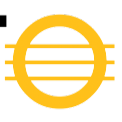
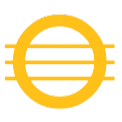
Updated the ui

Changed region(s): [[0.0, 0.123, 0.0738, 0.2213]]

diff --git a/components/Navbar.jsx b/components/Navbar.jsx
@@ -1,19 +1,16 @@
+import Image from "next/image";
+
 function Navbar() {
   return (
-    <nav className="bg-white border-gray-200 dark:bg-gray-900">
-      <div className="max-w-screen-xl flex flex-wrap items-center justify-between mx-auto p-4">
-        <a
-          href="https://flowbite.com/"
-          className="flex items-center space-x-3 rtl:space-x-reverse"
-        >
-          <img
-            src="https://flowbite.com/docs/images/logo.svg"
-            className="h-8"
-            alt="Flowbite Logo"
+    <nav className="bg-white border-b-2 border-gray-200">
+      <div className="max-w-screen-xl flex flex-wrap items-center justify-between mx-auto p-2  ">
+        <a href="/">
+          <Image
+            src="/torrins logo.png"
+            width={120}
+            height={50}
+            alt="Torrins Logo"
           />
-          <span className="self-center text-2xl font-semibold whitespace-nowrap dark:text-white">
-            Flowbite
-          </span>
         </a>
         <button
           data-collapse-toggle="navbar-default"
@@ -40,46 +37,14 @@ function Navbar() {
           </svg>
         </button>
         <div className="hidden w-full md:block md:w-auto" id="navbar-default">
-          <ul className="font-medium flex flex-col p-4 md:p-0 mt-4 border border-gray-100 rounded-lg bg-gray-50 md:flex-row md:space-x-8 rtl:space-x-reverse md:mt-0 md:border-0 md:bg-white dark:bg-gray-800 md:dark:bg-gray-900 dark:border-gray-700">
+          <ul className="font-medium flex flex-col p-4 md:p-0 mt-4 border border-gray-100 rounded-lg bg-gray-50 md:flex-row md:space-x-8 rtl:space-x-reverse md:mt-0 md:border-0 md:bg-white ">
             <li>
               <a
                 href="#"
-                className="block py-2 px-3 text-white bg-blue-700 rounded-sm md:bg-transparent md:text-blue-700 md:p-0 dark:text-white md:dark:text-blue-500"
+                className="block py-2 px-3 text-white bg-blue-700 rounded-sm md:bg-transparent md:text-blue-700 md:p-0 "
                 aria-current="page"
               >
                 Home
-              </a>
-            </li>
-            <li>
-              <a
-                href="#"
-                className="block py-2 px-3 text-gray-900 rounded-sm hover:bg-gray-100 md:hover:bg-transparent md:border-0 md:hover:text-blue-700 md:p-0 dark:text-white md:dark:hover:text-blue-500 dark:hover:bg-gray-700 dark:hover:text-white md:dark:hover:bg-transparent"
-              >
-                About
-              </a>
-            </li>
-            <li>
-              <a
-                href="#"
-                className="block py-2 px-3 text-gray-900 rounded-sm hover:bg-gray-100 md:hover:bg-transparent md:border-0 md:hover:text-blue-700 md:p-0 dark:text-white md:dark:hover:text-blue-500 dark:hover:bg-gray-700 dark:hover:text-white md:dark:hover:bg-transparent"
-              >
-                Services
-              </a>
-            </li>
-            <li>
-              <a
-                href="#"
-                className="block py-2 px-3 text-gray-900 rounded-sm hover:bg-gray-100 md:hover:bg-transparent md:border-0 md:hover:text-blue-700 md:p-0 dark:text-white md:dark:hover:text-blue-500 dark:hover:bg-gray-700 dark:hover:text-white md:dark:hover:bg-transparent"
-              >
-                Pricing
-              </a>
-            </li>
-            <li>
-              <a
-                href="#"
-                className="block py-2 px-3 text-gray-900 rounded-sm hover:bg-gray-100 md:hover:bg-transparent md:border-0 md:hover:text-blue-700 md:p-0 dark:text-white md:dark:hover:text-blue-500 dark:hover:bg-gray-700 dark:hover:text-white md:dark:hover:bg-transparent"
-              >
-                Contact
               </a>
             </li>
           </ul>

diff --git a/app/page.jsx b/app/page.jsx
@@ -45,15 +45,16 @@ export default function Home() {
   };
 
   return (
-    <div className="flex min-h-screen  mx-auto bg-amber-300 ">
-      <div className="w-2xs p-4">
+    <div className="max-w-screen-xl flex mx-auto p-4 min-h-screen gap-3">
+      <div className="w-2s p-4 bg-yellow-100 rounded-2xl shadow-2xl">
+        <h1 className="text-center textl-xl">Products</h1>
         {items.map((item, index) => (
           <ProductItem key={index} {...item} onDragStart={handleDragStart} />
         ))}
       </div>
 
       <div
-        className="flex-1 border relative"
+        className="flex-1 rounded-2xl shadow-2xl bg-amber-500 relative"
         onDrop={handleDrop}
         onDragOver={(e) => e.preventDefault()}
       >

diff --git a/components/OutfitCanvas.jsx b/components/OutfitCanvas.jsx
@@ -18,7 +18,7 @@ const OutfitCanvas = forwardRef(({ droppedItems, setDroppedItems }, ref) => {
   };
 
   return (
-    <Stage width={800} height={600} ref={ref} className="bg-red-50">
+    <Stage width={1200} height={600} ref={ref} className="bg-red-900">
       <Layer>
         {droppedItems.map((item, index) => (
           <DraggableResizableImage
